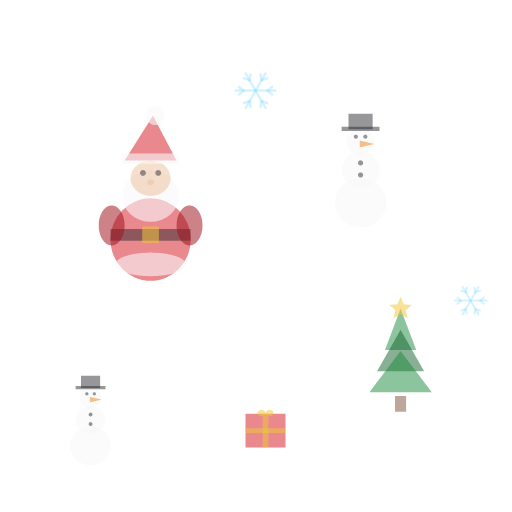
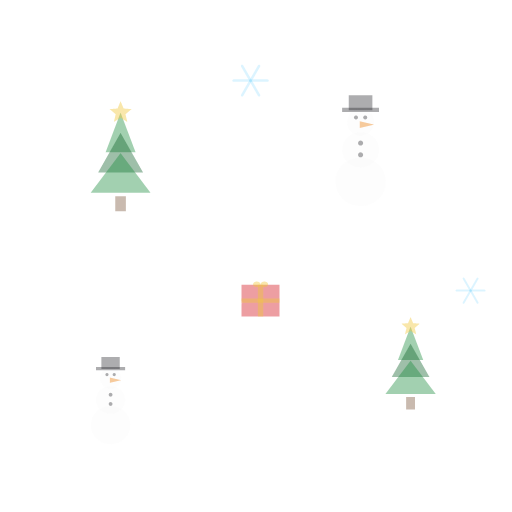
navidad: UN solo Papa Noel como figura de pagina (fuera del mosaico) e iconos realistas (arbol verde, muñeco con zanahoria, regalo rojo)

diff --git a/style.css b/style.css
@@ -50,7 +50,7 @@ body {
     overflow: hidden;
     background:
         linear-gradient(rgba(5, 5, 16, 0.60), rgba(5, 5, 16, 0.60)),
-        url('radio_background.png?v=79') center/400px repeat,
+        url('radio_background.png?v=80') center/400px repeat,
         radial-gradient(circle at 50% 50%, #1a1a2e 0%, #050510 100%);
 }
 
@@ -3462,6 +3462,39 @@ main > section {
 @keyframes nieveCae {
     0%   { transform: translate3d(0, -12vh, 0) rotate(0deg); }
     100% { transform: translate3d(var(--deriva, 20px), 112vh, 0) rotate(360deg); }
+}
+
+/* ===== PAPA NOEL UNICO (figura decorativa, no se repite) ===== */
+.navidad-santa {
+    position: fixed;
+    right: 12px;
+    bottom: 84px;
+    width: 92px;
+    height: auto;
+    z-index: 4;
+    pointer-events: none;
+    user-select: none;
+    filter: drop-shadow(0 8px 18px rgba(0, 0, 0, 0.45));
+    animation: santaFlota 5.5s ease-in-out infinite;
+}
+
+@keyframes santaFlota {
+    0%, 100% { transform: translateY(0) rotate(-2deg); }
+    50%      { transform: translateY(-9px) rotate(2deg); }
+}
+
+@media (max-width: 640px) {
+    .navidad-santa {
+        width: 64px;
+        bottom: 74px;
+        right: 8px;
+    }
+}
+
+/* En TV mas discreto para no tapar contenido */
+.is-tv .navidad-santa {
+    width: 104px;
+    bottom: 40px;
 }
 
 /* ===== FLYERS en formato ACHATADO / CUADRADO (TV y computador) =====

diff --git a/index.html b/index.html
@@ -141,7 +141,7 @@
       "inLanguage": "es"
     }
     </script>
-    <link rel="stylesheet" href="style.css?v=79">
+    <link rel="stylesheet" href="style.css?v=80">
     <link rel="preconnect" href="https://fonts.googleapis.com">
     <link rel="preconnect" href="https://fonts.gstatic.com" crossorigin>
     <link href="https://fonts.googleapis.com/css2?family=Outfit:wght@300;500;700;900&display=swap" rel="stylesheet">
@@ -154,6 +154,8 @@
 <body>
     <!-- Nieve cayendo (animacion navidena) -->
     <div class="snowfall" id="snowfall" aria-hidden="true"></div>
+    <!-- Papa Noel unico (figura decorativa de la pagina) -->
+    <img src="santa.png?v=80" class="navidad-santa" alt="" aria-hidden="true">
     <div class="background-animation">
         <div class="mesh-gradient"></div>
     </div>
@@ -565,7 +567,7 @@
         </div>
     </div>
 
-    <script src="script.js?v=79"></script>
+    <script src="script.js?v=80"></script>
 </body>
 
 </html>

diff --git a/sw.js b/sw.js
@@ -1,7 +1,7 @@
 /* Service Worker - Master Crazy Radio PWA
    Estrategia: red primero para TODO lo propio del sitio (asi los cambios llegan
    al instante) con la cache como respaldo cuando no hay conexion. */
-const CACHE_NAME = 'master-crazy-radio-v79';
+const CACHE_NAME = 'master-crazy-radio-v80';
 const APP_SHELL = [
   './',
   './index.html',
